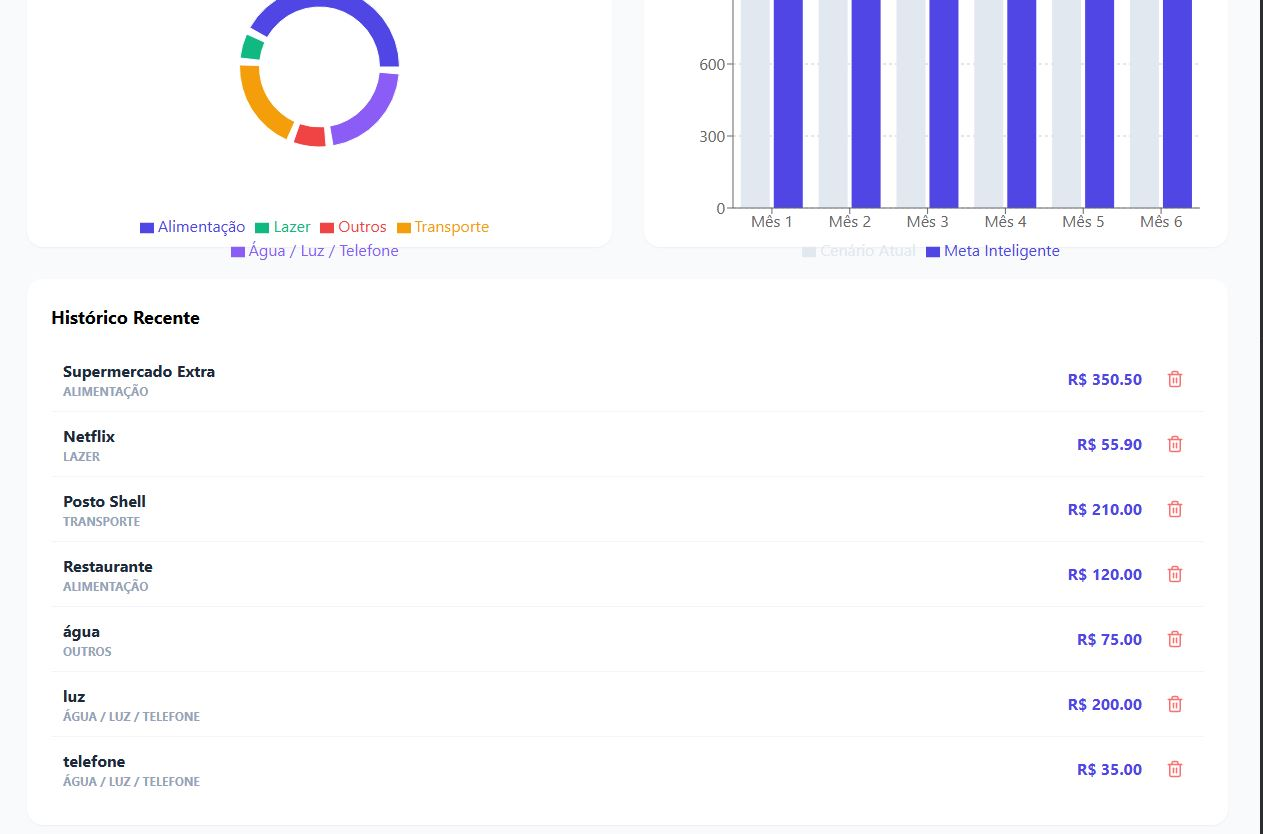
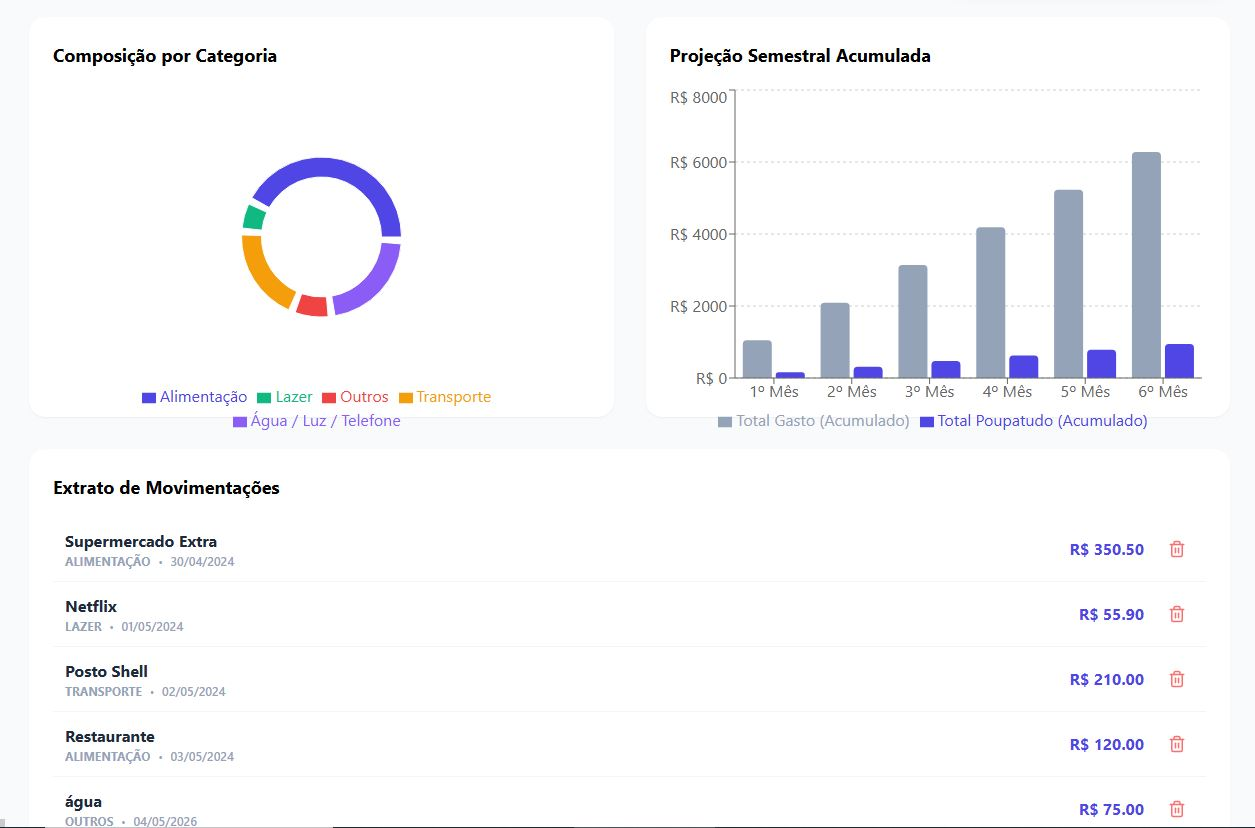
first commit

diff --git a/src/pages/Dashboard.tsx b/src/pages/Dashboard.tsx
@@ -51,7 +51,7 @@ export const Dashboard = ({ transacoes, onAdicionarGasto, onExcluirGasto }: Dash
     const alturaPdf = (canvas.height * larguraPdf) / canvas.width;
 
     pdf.addImage(imgData, 'PNG', 0, 0, larguraPdf, alturaPdf);
-    pdf.save(`Relatorio_ConsumaMais_${new Date().toLocaleDateString()}.pdf`);
+    pdf.save(`Relatorio_SmartFinance_${new Date().toLocaleDateString()}.pdf`);
   };
 
   const analise = useMemo(() => {
@@ -88,7 +88,7 @@ export const Dashboard = ({ transacoes, onAdicionarGasto, onExcluirGasto }: Dash
     <main className="p-4 md:p-8 bg-slate-50 min-h-screen">
       <header className="flex justify-between items-center mb-8">
         <div>
-          <h1 className="text-3xl font-bold text-slate-900 text-left">Consuma+</h1>
+          <h1 className="text-3xl font-bold text-slate-900 text-left">SmartFinance</h1>
           <p className="text-slate-500 font-medium text-left">Consumer Insight Intelligence</p>
         </div>
         

diff --git a/src/pages/Login.tsx b/src/pages/Login.tsx
@@ -17,7 +17,7 @@ export const Login = () => {
     <div className="min-h-screen flex items-center justify-center bg-slate-100 p-4">
       <form onSubmit={handleLogin} className="bg-white p-8 rounded-3xl shadow-xl w-full max-w-md">
         <div className="text-center mb-8">
-          <h2 className="text-3xl font-black text-indigo-600">Consuma+</h2>
+          <h2 className="text-3xl font-black text-indigo-600">SmartFinance</h2>
           <p className="text-slate-400 font-medium">Painel de Gestão Inteligente</p>
         </div>
         

diff --git a/index.html b/index.html
@@ -4,7 +4,7 @@
     <meta charset="UTF-8" />
     <link rel="icon" type="image/svg+xml" href="/favicon.svg" />
     <meta name="viewport" content="width=device-width, initial-scale=1.0" />
-    <title>consuma-mais</title>
+    <title>SmartFinance | Consumer Insight Intelligence</title>
     <script src="https://cdn.tailwindcss.com"></script>
   </head>
   <body>

diff --git a/README.md b/README.md
@@ -1,11 +1,12 @@
 # Consuma+ | Consumer Insight Intelligence
 
-O **Consuma+** é uma plataforma de inteligência financeira desenvolvida para transformar a gestão de gastos pessoais em uma experiência analítica e estratégica. O projeto foca em converter dados brutos de transações em insights acionáveis, auxiliando usuários a identificar padrões de consumo e estabelecer metas de economia inteligentes.
+O **SmartFinance** é uma plataforma de inteligência financeira desenvolvida para transformar a gestão de gastos pessoais em uma experiência analítica e estratégica. O projeto foca em converter dados brutos de transações em insights acionáveis, auxiliando usuários a identificar padrões de consumo e estabelecer metas de economia inteligentes.
 
 ## 📸 Demonstração do Sistema
 
 ### Tela de Login
 ![Tela de Login](./src/screenshots/tela-login.JPG)
+
 *Interface de acesso segura integrada com Context API para gerenciamento de sessão.*
 
 ### Dashboard Principal
@@ -16,10 +17,13 @@ O **Consuma+** é uma plataforma de inteligência financeira desenvolvida para t
 ![Histórico e Gráficos](./src/screenshots/historico.JPG)
 *Visualização detalhada do histórico de transações e gráfico de pizza por categoria.*
 
+### Relatório em PDF
+![Relatório](./src/screenshots/relatorio-smart.JPG)
+*Relatório em PDF.*
 ---
 ## 🚀 Sobre o Projeto
 
-Este ecossistema foi desenvolvido como parte de uma transição estratégica para o setor de tecnologia. Ele une uma sólida experiência de mais de sete anos no setor financeiro com o desenvolvimento Full Stack moderno, focado em resolver problemas reais de organização financeira através de uma interface intuitiva e responsiva.
+O SmartFinance não é apenas um dashboard de visualização; é um ecossistema de Business Intelligence desenhado para oferecer clareza e previsibilidade financeira através de uma interface intuitiva e robusta.
 
 ### 🛠 Tecnologias Utilizadas
 
@@ -38,7 +42,8 @@ Este ecossistema foi desenvolvido como parte de uma transição estratégica par
 *   **Relatórios em PDF**: Exportação instantânea do dashboard completo (gráficos e histórico) para arquivos PDF, facilitando o compartilhamento da análise financeira.
 *   **Dashboard Inteligente**: Painel visual com saldo total de gastos e identificação do foco principal de consumo.
 *   **Metas de Economia**: Algoritmo que projeta cenários de economia (15%) baseados no comportamento financeiro atual.
-*   **Gestão de Transações**: Sistema completo de CRUD para controle rigoroso de despesas com geração de IDs únicos via UUID.
+*   **Projeção Semestral**: Algoritmo que projeta o acúmulo de capital para os próximos meses, permitindo o planejamento de grandes compras ou investimentos.
+*   **Gestão de Transações**: Sistema para controle rigoroso de despesas com geração de IDs únicos via UUID.
 
 ## 🛠 Configuração do Ambiente
 
@@ -50,7 +55,7 @@ Este ecossistema foi desenvolvido como parte de uma transição estratégica par
 
 1.  **Clone o repositório**:
     ```bash
-    git clone [https://github.com/Li-code1/consuma-mais.git](https://github.com/Li-code1/consuma-mais.git)
+    git clone [https://github.com/Li-code1/smart-finance.git](https://github.com/Li-code1/smart-finance.git)
     ```
 
 2.  **Instale as dependências**:
@@ -90,7 +95,6 @@ O desenvolvimento do Consuma+ faz parte de um portfólio robusto que inclui:
 
 ---
 
-**Desenvolvido por**: [Liliane Lima] – Desenvolvedora Full Stack Python em formação e Graduanda em Análise e Desenvolvimento de Sistemas.
 ```
 
 ```
